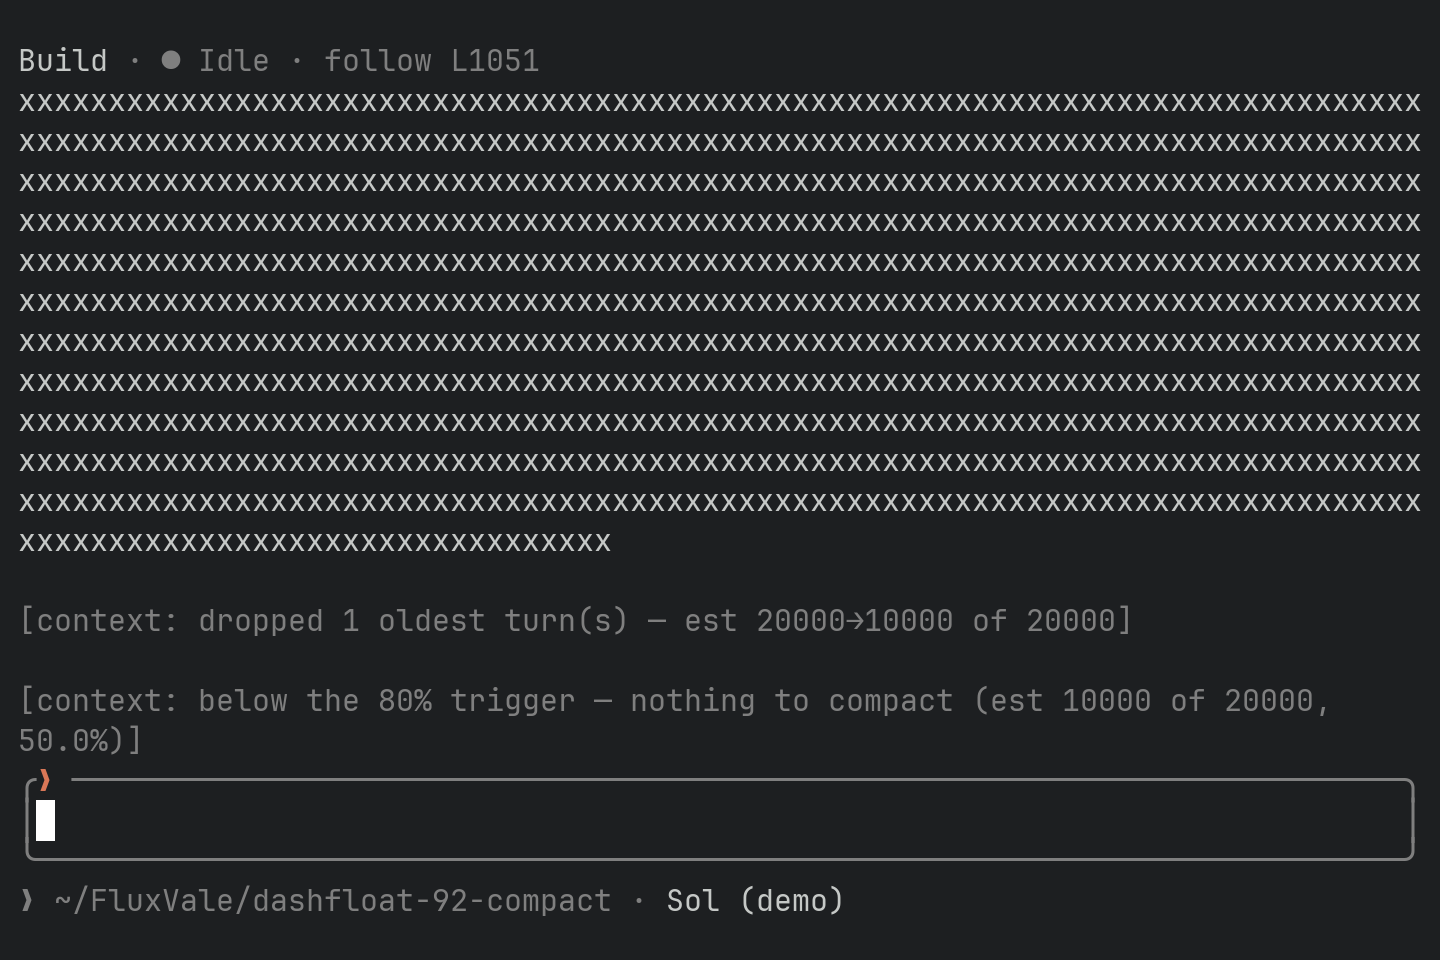
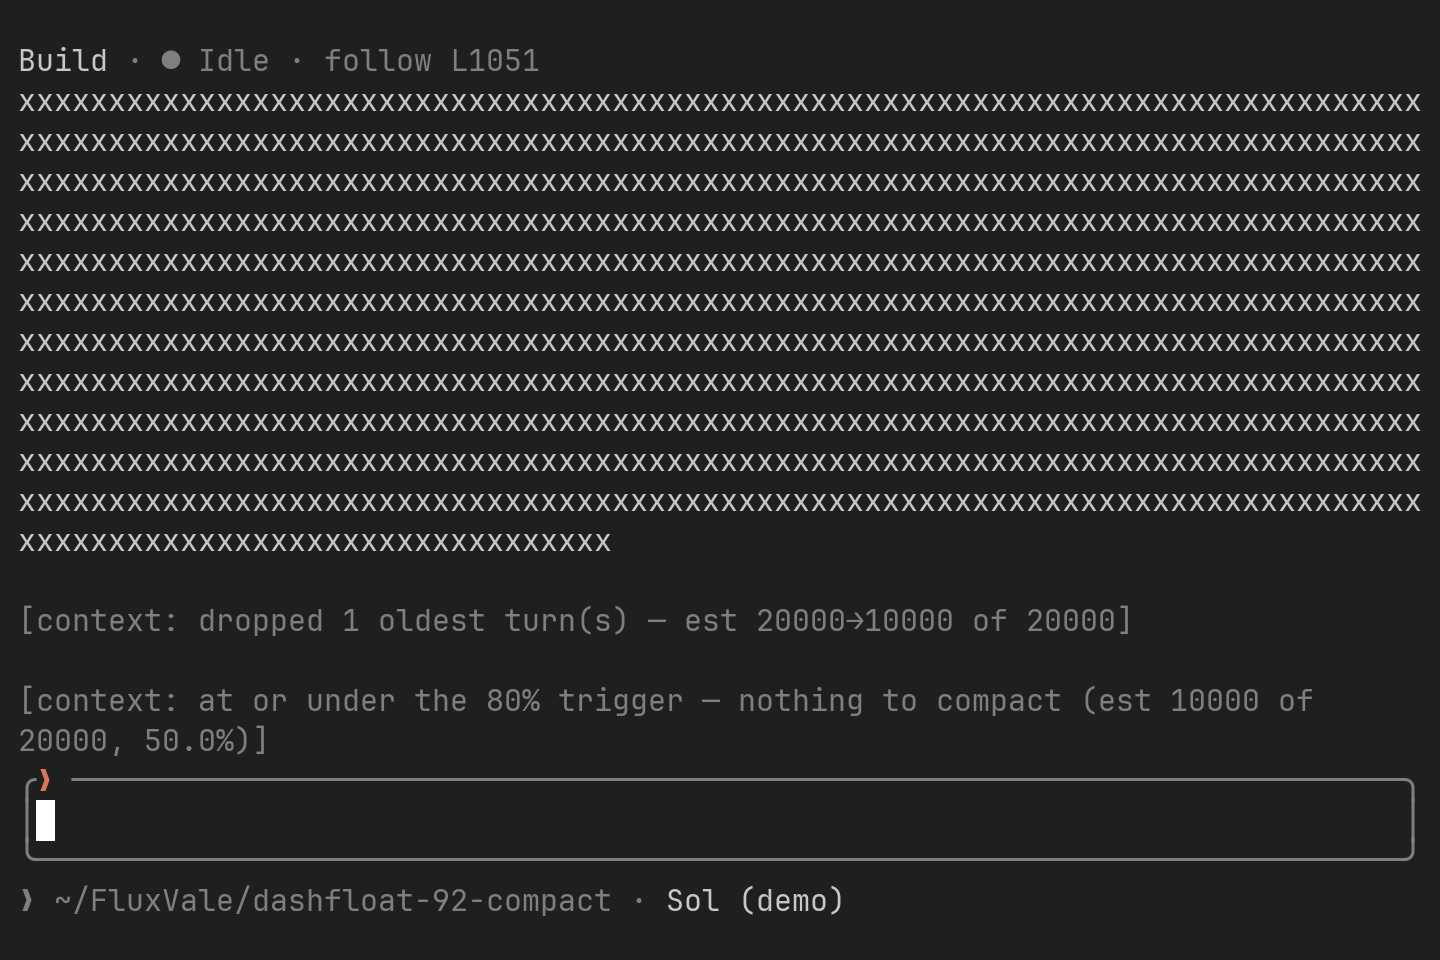
fix(agent): /compact review fixes — no-op never persists, at-or-under trigger wording, narrowing-asserted palette GIF (#92)

Changed region(s): [[0.0, 0.7188, 0.5312, 0.7812], [0.5625, 0.7188, 0.9062, 0.75]]

diff --git a/scripts/capture.py b/scripts/capture.py
@@ -435,11 +435,14 @@ class App:
         self.render(crop_rows=crop_rows).save(path)
         print(f"still  {path} ({os.path.getsize(path)} bytes)")
 
-    def gif(self, path: str, fps=10, crop_rows=12):
+    def gif(self, path: str, fps=10, crop_rows=12, min_span=0.0):
         """Render the marked window as frames. The replay screen is fed the
         FULL byte history from boot up to each frame's horizon, so every
         frame carries the complete UI (static chrome included); the window
-        itself starts at the mark."""
+        itself starts at the mark. `min_span` (seconds) extends the frame
+        count past the last byte event — an idle app emits nothing, but the
+        final state must still fall inside a frame horizon (Pillow merges
+        pixel-identical frames, so trailing duplicates cost nothing)."""
         if self._mark is None:
             raise RuntimeError("no recording mark was set")
         metrics = self._metrics(scale=2)
@@ -455,7 +458,11 @@ class App:
             _, chunk = events.pop(0)
             self.feed(chunk)
         window = [e for e in events if e[0] >= self._mark]
-        n_frames = max(1, int((window[-1][0] - self._mark) * 1000 / step))
+        n_frames = max(
+            1,
+            int((window[-1][0] - self._mark) * 1000 / step),
+            int(min_span * 1000 / step),
+        )
         for i in range(n_frames):
             horizon = self._mark + (i + 1) * step / 1000
             while events and events[0][0] <= horizon:
@@ -563,7 +570,7 @@ def main():
                 if args.out2:
                     app.type("/compact")
                     app.send(b"\r")
-                    app.wait_for("below the 80% trigger")
+                    app.wait_for("at or under the 80% trigger")
                     app.wait_quiet()
                     app.screenshot(args.out2)
             elif args.scenario == "slash-autocomplete":
@@ -572,12 +579,24 @@ def main():
             if args.scenario != "compact-session":
                 app.screenshot(args.out)
         elif args.scenario == "slash-autocomplete":
-            # The popup mid-typing: "/" then "c" — the list narrows to
-            # /clear and /compact.
+            # The popup opening AND narrowing: "/" opens the full list, "c"
+            # narrows it to /clear + /compact. The narrowed state is ASSERTED
+            # before recording — a keystroke lost in flight must fail the
+            # capture, not ship a GIF where nothing happens (#92 review).
             app._mark = time.monotonic()
-            app.type("/c", per_key=0.3)
-            time.sleep(0.5)
-            app.gif(args.out)
+            app.type("/c", per_key=0.5)
+            deadline = time.monotonic() + 5
+            while time.monotonic() < deadline:
+                screen = app.text()
+                if "compact" in screen and "/help" not in screen:
+                    break
+                time.sleep(0.1)
+            else:
+                raise TimeoutError("the narrowed command popup never rendered")
+            time.sleep(0.5)                # a settled beat on the narrowed list
+            # 16 rows: the narrowed popup rides higher than the full list,
+            # and /clear + /compact must be legible in the final frame.
+            app.gif(args.out, crop_rows=16, min_span=1.5)
         else:
             app.type("what is elixir?")
             app.send(b"\r")

diff --git a/docs/decisions/0022-context-accounting-and-compaction.md b/docs/decisions/0022-context-accounting-and-compaction.md
@@ -137,6 +137,9 @@ exactly one check. Consequences:
 - Compaction covers resumed sessions at their first prompt — ADR 0014 §6's
   "no truncation, no accounting" clause ends here, at the seam it reserved.
 - Mid-turn mutation is structurally impossible: there is no second hook.
+  *(Amended 2026-10-30: the [`/compact`
+  seam](#amendment-2026-10-30-issue-92-manual-compact) below adds an
+  idle-only entry point to this same pass — still never mid-turn.)*
 - Eviction rewrites the session file immediately (the compacted list plus its
   record, §6), so the persisted session and the next request agree — and the
   dropped turns are absent from both (issue #43's visibility clause).
@@ -329,8 +332,9 @@ implementation exists; the automatic path behaves identically.
 
 1. **The same ~80% trigger governs the manual path.** Below it, `/compact`
    is a no-op whose feedback entry reports where the estimate stands —
-   `[context: below the 80% trigger — nothing to compact (est 940 of 2000,
-   47.0%)]` (`Accounting.usage/3`, §7). Three reasons:
+   `[context: at or under the 80% trigger — nothing to compact (est 940 of
+   2000, 47.0%)]` (`Accounting.usage/3`, §7; "at or under" because the
+   trigger is *strictly past* 80%, §3). Three reasons:
    - Under drop-oldest, eviction is pure discard — stage-2 summarization
      (§8) does not exist yet — so compacting a mostly-empty window destroys
      context the next request could have carried, reclaiming nothing that
@@ -357,8 +361,10 @@ implementation exists; the automatic path behaves identically.
    (§1).
 3. **Persistence matches the mutation.** A dropping `/compact` rewrites the
    session file immediately (compacted list plus `compactions` record, §6).
-   A no-op writes nothing — there is nothing to save, and a failed-save
-   notice on an unchanged session would be noise. With no configured window
-   (or no resolved provider) the command says so — `[context: no context
-   window configured — nothing to compact]` — §2's "nothing is guessed"
-   governs the manual path too.
+   A pass that dropped nothing — the below-trigger no-op and the oversize
+   warning alike — writes nothing at all: there is nothing to save, a
+   failed-save notice on an unchanged session would be noise, and an
+   unprompted launch must leave nothing behind (ADR 0014 §5). With no
+   configured window (or no resolved provider) the command says so —
+   `[context: no context window configured — nothing to compact]` — §2's
+   "nothing is guessed" governs the manual path too.
